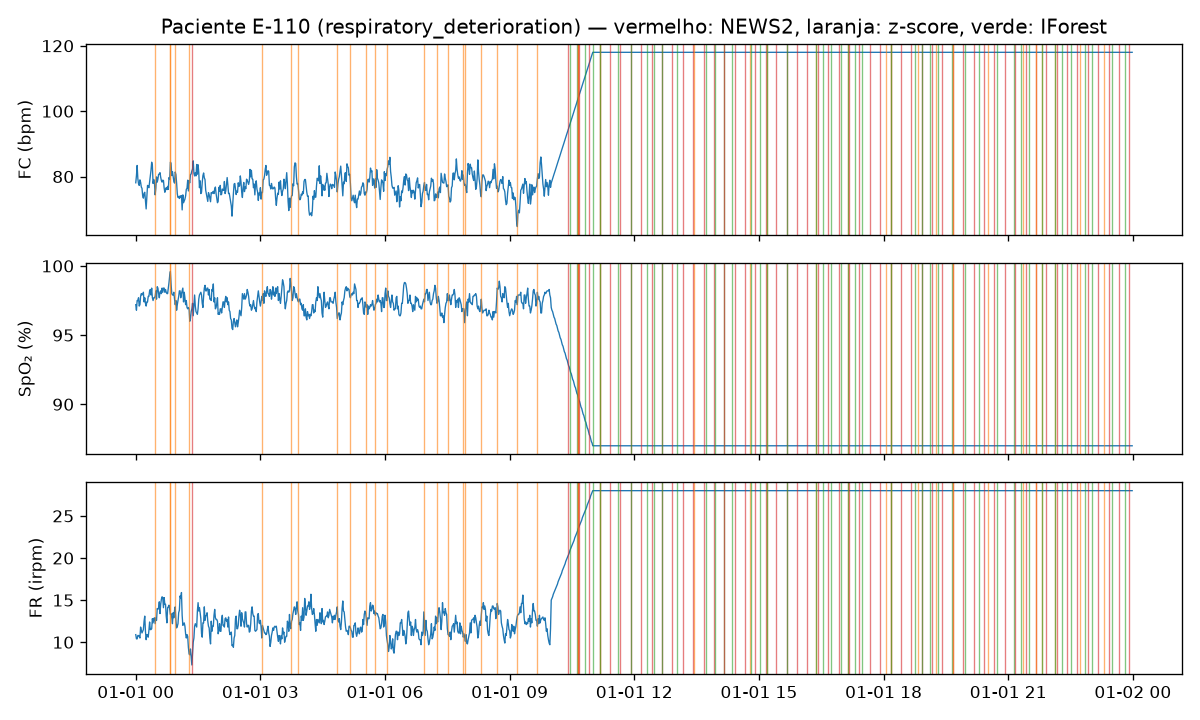
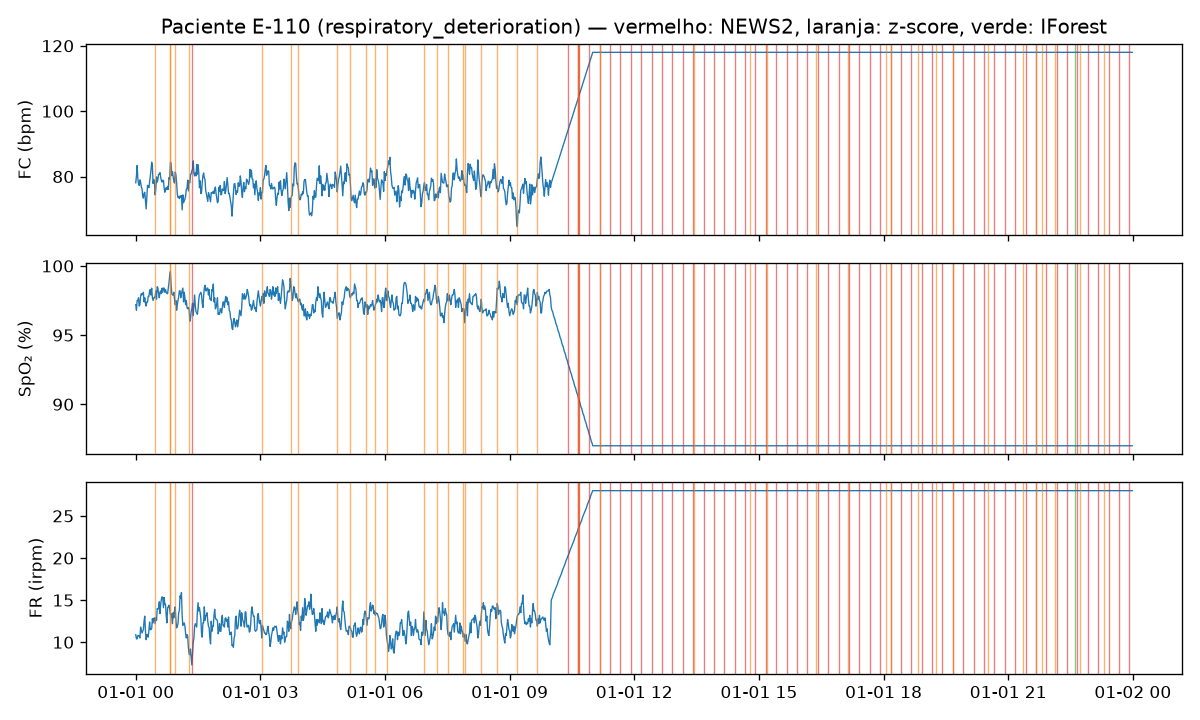
T36: Avaliação de vitais corrigida e ajuste de limiares

diff --git a/PROGRESSO.md b/PROGRESSO.md
@@ -2,22 +2,20 @@
 
 Atualize este arquivo em **todo** commit (regras na seção 0.1 do `PLANO_IMPLEMENTACAO.md`).
 
-- **Última atualização:** 2026-11-09 (T35 concluída)
-- **Tarefa atual:** T36
-- **Estado geral:** T00–T33 e T35 concluídas; pendentes, nesta ordem: T36 (avaliação de vitais corrigida), T37 (datasets reais com partes reservadas) e T38 (preparação da gravação); T34 opcional e fora da ordem
+- **Última atualização:** 2026-11-09 (T36 concluída)
+- **Tarefa atual:** T37
+- **Estado geral:** T00–T33, T35 e T36 concluídas; pendentes, nesta ordem: T37 (datasets reais com partes reservadas) e T38 (preparação da gravação); T34 opcional e fora da ordem
 
 ## Tarefa em andamento
 
-- **Tarefa:** T36 — Avaliação de vitais corrigida e ajuste de limiares
-- **Passos concluídos:** 1 (rótulos persistentes), 2 e 3 (métricas por episódio e por alerta em `evaluate_vitals.py`, com `--tune` e cache do IForest), 4 (persistência z-score/IForest e `threshold_key`/`p0_1`; modelo retreinado com `p0_1`)
-- **Próximo passo exato:** passo 5 (rodar `.venv/bin/python scripts/evaluate_vitals.py --tune`, escolher limiares, gravar em `thresholds.yaml` + `docs/DECISOES.md`), depois passo 6 (regerar resultados e relatório). A T35 mostrou os sintomas que a T36 deve resolver: pacientes normais (P-0003) e o do artefato (P-0005) recebem alerta de atenção por `vital_iforest` + `vital_zscore`; ver `docs/resultados/integracao.md`. Não precisa de Docker no stack: `evaluate_vitals.py` roda os detectores direto.
-- **Quem executa a T36:** o agente da **VPS** (Linux, Python 3.11 em `.venv`), por decisão do humano em 2026-11-09. Use `.venv/bin/python`, `.venv/bin/pytest -q` e `.venv/bin/ruff check .`. Antes do passo 1, confirme o ambiente: `.venv/bin/pip install "pyarrow<18"` e `.venv/bin/pip install -e ".[audio,video,reports,dashboard,dev]"` (o `pyarrow` 26 do `.venv` antigo quebra o openSMILE e o `st.dataframe`). Os testes de banco e de Redis reais só rodam com `docker compose up -d db redis`; sem eles, pulam. A T35 já validou o stack completo no desktop do humano (ver `docs/resultados/integracao.md`), então não repita essa integração.
-- **Dica de tempo:** `evaluate_vitals.py` leva cerca de 10 minutos por causa do Isolation Forest rodando minuto a minuto; a busca de limiares do passo 5 multiplica isso. Rode as configurações da grade em lote, guarde os resultados parciais em `docs/resultados/` e faça commit entre as rodadas.
-- **Mídias sintéticas** (T35) estão em `data/samples/sinteticos/` (`tom.wav`, `pessoas.jpg`, `pessoas.mp4`), fora do Git.
+- **Tarefa:** T37 — Datasets públicos do enunciado com partes reservadas
+- **Passos concluídos:** nenhum
+- **Próximo passo exato:** passo 1 da T37 (ver `PLANO_IMPLEMENTACAO.md`). Passos [HUMANO] da T37 (Common Voice, Azure para a consulta sintética) vão para a tabela de bloqueios.
+- **Ambiente:** VPS Linux, Python 3.11 em `.venv` (`.venv/bin/python`, `.venv/bin/pytest -q`, `.venv/bin/ruff check .`). `pyarrow` 17 instalado.
 - **Arquivos tocados:** nenhum
 - **Comandos longos em execução:** nenhum
-- **Testes falhando conhecidos:** nenhum
-- **Observações:** relatório tem itens marcados [PENDENTE] (custos Azure, prints, avaliação de vídeo). Ambiente Python 3.11 em `.venv`. `dbg_tmp.py` na raiz é arquivo não versionado de sessão anterior (não commitado).
+- **Testes falhando conhecidos:** nenhum (190 passam)
+- **Observações:** relatório tem itens marcados [PENDENTE]. `dbg_tmp.py` na raiz é arquivo não versionado de sessão anterior. `models/vitals_iforest.json` foi regravado com o campo `p0_1` (fora do Git; rode `scripts/train_vitals_iforest.py` em outra máquina para o limiar `p0_1` existir, senão o IForest cai no `threshold` antigo).
 
 ## Status das tarefas
 
@@ -59,7 +57,7 @@ Atualize este arquivo em **todo** commit (regras na seção 0.1 do `PLANO_IMPLEM
 | T33 | README, documentação e relatório técnico | concluída | ver `git log` | `pytest -q` (178 passed) e `ruff check .` passam; seções de custos Azure, prints e avaliação de vídeo marcadas [PENDENTE] (dependem de humano); aceite "colega roda do zero" não testado |
 | T34 | Opcionais | pendente | | opcional; fora da ordem, só se o humano pedir |
 | T35 | Integração ponta a ponta (modo falso) | concluída | ver `git log` | stack completo sobe e funciona (184 testes, zero reinícios); 4 defeitos corrigidos; falsos alarmes em P-0003/P-0005 vão para a T36; ver `docs/resultados/integracao.md`. Azure e Teams reais seguem pendentes [HUMANO] |
-| T36 | Avaliação de vitais corrigida e ajuste de limiares | pendente | | adicionada na revisão pós-T33 |
+| T36 | Avaliação de vitais corrigida e ajuste de limiares | concluída | ver `git log` | `pytest -q` (190) e `ruff check .` passam; por alerta: recall 0,93 (ajuste) / 1,00 (conferência) e 0,10 alertas/dia em normais; recall 100% no ajuste não alcançado (hipotensão lenta, ver `vitals_tuning.md`) |
 | T37 | Datasets públicos do enunciado com partes reservadas | pendente | | PhysioNet e AudioSet como dados; também UR Fall (queda), Common Voice (voz saudável) e consulta sintética pela Azure; adicionada na preparação do vídeo |
 | T38 | Preparação da gravação do vídeo | pendente | | simulador mais rápido, checagem prévia, roteiro; adicionada na preparação do vídeo |
 
@@ -144,3 +142,4 @@ Ver a tabela "Estado fora do Git" na seção 0.1 do plano. Registre aqui o que j
 | 2026-11-08 | T32 | ver `git log` | Sessão no Opus 5.5. scripts/run_demo.py (health, pacientes, simulador subprocesso ou externo, envio por `sim:clock`), data/samples/README.md e tests/test_run_demo.py; `pytest -q` (178 passed) e `ruff check .` OK. Próxima: T33. |
 | 2026-11-08 | T33 | ver `git log` | README reescrito (requisitos, passo a passo bash/PowerShell, problemas comuns, testes, estrutura), docs/arquitetura.md (Mermaid, serviços, streams, tabelas, catálogo) e docs/relatorio-tecnico.md (7 seções); `pytest -q` e `ruff check .` OK. Próxima: T34 opcional / passos humanos. |
 | 2026-11-09 | T35 | ver `git log` | Rodada no desktop do humano (Windows, RTX 5070, Docker Desktop). Stack completo com mídias sintéticas, laudo, alertas, confirmação, escalonamento, relatório e dashboard num navegador. Defeitos: redis-py 8 derrubava 4 workers (`bus.py`), testes sujavam o banco ao vivo (`tests/conftest.py`), coluna "Nível" do dashboard, `cu121` na documentação (RTX 50xx precisa de `cu128`). Pendências: falsos alarmes em pacientes normais (T36) e laudo sem tratamento de negação. |
+| 2026-11-09 | T36 | ver `git log` | VPS. Rótulos persistentes, persistência no z-score/IForest (`p0_1`), métricas por episódio e por alerta, grade de 24 combinações (ajuste e conferência), limiares escolhidos, relatório atualizado. Próxima: T37. |

diff --git a/docs/relatorio-tecnico.md b/docs/relatorio-tecnico.md
@@ -94,23 +94,44 @@ O provisionamento é feito por `scripts/provision_azure.sh` (grupo `rg-medwatch`
 ### 5.1 Sinais vitais (dados sintéticos)
 
 Avaliação com `scripts/evaluate_vitals.py`: 30 pacientes sintéticos (seeds 100–129), 24 h cada, 15 episódios rotulados
-(deterioração respiratória, hipotensão, taquicardia). Um episódio conta como detectado (TP) se houver detecção entre
-`ts_start` e `ts_end + 30 min`; detecções fora dessas janelas são FP.
+(deterioração respiratória, hipotensão, taquicardia) e 10 pacientes normais. A T36 trocou o método da T31, que dava
+precisão de 1% a 3%, por dois motivos: (1) no gerador a piora continuava até o fim do dia, mas o rótulo terminava no fim
+da rampa, então cada repetição do NEWS2 com o paciente ainda grave contava como falso positivo (agora os rótulos de
+`respiratory_deterioration` e `hypotension` vão até o fim da série); (2) contar cada evidência como um erro não mede o
+que a equipe médica recebe. Passaram a existir três métricas: por evidência (a antiga), por episódio (detecções do mesmo
+tipo com menos de 30 min entre si formam um episódio) e **por alerta** (evidências passadas pelo motor de fusão; o
+alerta abre em nível `warning` ou mais e fecha com risco < 20 por 60 min). O número principal é o do alerta.
 
-| Configuração | TP | FP | FN | Precisão | Recall | F1 | Atraso mediano (min) | FP/paciente-dia |
-|---|---|---|---|---|---|---|---|---|
-| NEWS2 | 15 | 557 | 0 | 0,03 | 1,00 | 0,05 | 24,0 | 18,57 |
-| NEWS2 + z-score | 15 | 2011 | 0 | 0,01 | 1,00 | 0,01 | 0,0 | 67,03 |
-| NEWS2 + z-score + IForest | 15 | 2632 | 0 | 0,01 | 1,00 | 0,01 | 0,0 | 87,73 |
+Limiares escolhidos numa grade de 24 combinações (`docs/resultados/vitals_tuning.md`): z-score 3,0 com persistência 1;
+Isolation Forest no percentil 0,1 com persistência 3.
+
+**Por alerta (seeds 100–129)**
+
+| Configuração | TP | FP | FN | Precisão | Recall | Atraso mediano (min) | Alertas/dia em normais |
+|---|---|---|---|---|---|---|---|
+| NEWS2 | 6 | 1 | 9 | 0,86 | 0,40 | 40,0 | 0,00 |
+| NEWS2 + z-score | 13 | 3 | 2 | 0,81 | 0,87 | 37,0 | 0,10 |
+| NEWS2 + z-score + IForest | 14 | 3 | 1 | 0,82 | 0,93 | 30,5 | 0,10 |
+
+**Antes × depois (NEWS2 + z-score + IForest)**
+
+| Método | Precisão | Recall | FP por paciente-dia (normais) |
+|---|---|---|---|
+| T31: por evidência, rótulos curtos, limiares antigos | 0,01 | 1,00 | 87,7 (todos os pacientes) |
+| T36: por evidência, rótulos persistentes | 0,01 | 1,00 | 49,5 (todos os pacientes) |
+| T36: por episódio | 0,03 | 1,00 | 21,1 episódios/dia (normais) |
+| **T36: por alerta, limiares ajustados** | **0,82** | **0,93** | **0,10 alertas/dia (normais)** |
 
 Fonte: `docs/resultados/vitals_metrics.csv` / `.md`; exemplo gráfico em `docs/resultados/vitals_example.png`.
 
-**Leitura honesta.** O recall é 100%, mas a precisão é baixa. O gerador sintético mantém o estado alterado até o fim do
-dia e o worker repete os alertas NEWS2 médio/alto a cada `repeat_minutes`; essas repetições fora da janela do rótulo
-contam como FP. O z-score também dispara em pacientes normais porque o ruído sintético tem variância baixa. Os métodos
-adicionais (z-score, Isolation Forest) reduzem o atraso mediano a 0 min mas multiplicam os falsos positivos — na fusão
-eles têm peso baixo (0,40 e 0,50) e só a maior contribuição por tipo conta, o que limita o efeito no escore de risco.
-Ajustes possíveis: contar repetições como o mesmo episódio, aumentar cooldown e limiar do z-score.
+**Leitura honesta.** A meta de recall de 100% nos positivos não foi alcançada no conjunto de ajuste (14 de 15; no
+conjunto de conferência, seeds 200–229, nunca usado no ajuste, o recall foi 1,00 com 0,00 alerta por paciente-dia em
+normais). O rótulo perdido é uma hipotensão lenta cuja PAS (~82 mmHg) dá só 3 pontos de NEWS2 (faixa `low_medium`, peso
+0,45), risco ≈ 14, abaixo do nível de alerta; resolver exigiria mexer nos pesos da fusão, o que ficou fora do escopo. A
+meta de menos de 1 alerta por paciente-dia em normais foi atingida (0,10). Os dados são sintéticos e o gerador tem
+ruído simples; o ganho em precisão vem principalmente de medir alertas em vez de evidências e de a fusão limitar o
+efeito de detectores ruidosos (só a maior contribuição por tipo conta). Por evidência e por episódio o z-score continua
+gerando muitas detecções em normais (21 episódios por paciente-dia); elas não viram alerta porque o peso é 0,40.
 
 ### 5.2 Vídeo
 
@@ -150,7 +171,7 @@ Estes casos exigem as amostras de mídia, os pesos YOLO e (para 2 e 5) chaves Az
 
 1. Executar a demonstração completa com amostras reais, chaves Azure e Teams, e preencher as seções 4 e 5.3.
 2. Anotar vídeos e rodar `evaluate_video.py`.
-3. Reduzir falsos positivos dos vitais (agrupar repetições, cooldown, limiar do z-score) e treinar o Isolation Forest com MIMIC-IV.
+3. Treinar o Isolation Forest com MIMIC-IV e reduzir os falsos positivos do z-score por evidência (agora só mitigados pela fusão).
 4. Calibrar os pesos de fusão com desfechos rotulados.
 5. Substituir/complementar o YOLO COCO por detector de instrumentos cirúrgicos treinado; avaliar OpenPose.
 6. Integrar a um padrão de interoperabilidade (HL7 FHIR) e adicionar autenticação, auditoria e RBAC.

diff --git a/docs/resultados/vitals_metrics.md b/docs/resultados/vitals_metrics.md
@@ -1,11 +1,35 @@
 # Avaliação dos vitais (30 pacientes sintéticos, seeds 100–129, 24 h)
 
+Limiares em uso: z-score 3.0 com persistência 1; Isolation Forest `p0_1` com persistência 3 (`config/thresholds.yaml`).
+
+## 1. Por alerta (número principal: o que a equipe médica veria)
+
+Evidências de cada paciente passam pelo `FusionEngine` (`config/fusion.yaml`); um alerta abre quando o nível chega a `warning` ou mais e fecha quando o risco fica abaixo de 20 por 60 minutos seguidos. TP: alerta aberto em `[ts_start, ts_end + 30 min]` de um rótulo positivo; os demais alertas são FP (inclui os causados por `sensor_artifact`).
+
+| Configuração | TP | FP | FN | Precisão | Recall | Atraso mediano (min) | Alertas/dia em pacientes normais |
+|---|---|---|---|---|---|---|---|
+| NEWS2 | 6 | 1 | 9 | 0.86 | 0.40 | 40.0 | 0.00 |
+| NEWS2 + z-score | 13 | 3 | 2 | 0.81 | 0.87 | 37.0 | 0.10 |
+| NEWS2 + z-score + IForest | 14 | 3 | 1 | 0.82 | 0.93 | 30.5 | 0.10 |
+
+## 2. Por episódio
+
+TP: ao menos uma detecção em `[ts_start, ts_end + 30 min]`. Fora das janelas, detecções do mesmo tipo com menos de 30 min entre si formam um episódio, e cada episódio é um FP. Coluna final: episódios falsos por paciente-dia nos pacientes `normal`.
+
+| Configuração | TP | FP | FN | Precisão | Recall | Atraso mediano (min) | Episódios FP/dia em normais |
+|---|---|---|---|---|---|---|---|
+| NEWS2 | 15 | 51 | 0 | 0.23 | 1.00 | 24.0 | 2.30 |
+| NEWS2 + z-score | 15 | 508 | 0 | 0.03 | 1.00 | 0.0 | 21.10 |
+| NEWS2 + z-score + IForest | 15 | 508 | 0 | 0.03 | 1.00 | 0.0 | 21.10 |
+
+## 3. Por evidência (método da T31, para comparação)
+
+Cada detecção fora das janelas de rótulo é um FP (repetições incluídas).
+
 | Configuração | TP | FP | FN | Precisão | Recall | F1 | Atraso mediano (min) | FP/paciente-dia |
 |---|---|---|---|---|---|---|---|---|
-| NEWS2 | 15 | 557 | 0 | 0.03 | 1.00 | 0.05 | 24.0 | 18.57 |
-| NEWS2 + z-score | 15 | 2011 | 0 | 0.01 | 1.00 | 0.01 | 0.0 | 67.03 |
-| NEWS2 + z-score + IForest | 15 | 2632 | 0 | 0.01 | 1.00 | 0.01 | 0.0 | 87.73 |
+| NEWS2 | 15 | 196 | 0 | 0.07 | 1.00 | 0.13 | 24.0 | 6.53 |
+| NEWS2 + z-score | 15 | 1485 | 0 | 0.01 | 1.00 | 0.02 | 0.0 | 49.50 |
+| NEWS2 + z-score + IForest | 15 | 1485 | 0 | 0.01 | 1.00 | 0.02 | 0.0 | 49.50 |
 
-Critério: detecção dentro de `[ts_start, ts_end + 30 min]` de um rótulo positivo (respiratory_deterioration, hypotension, tachy_spike) conta como um TP por rótulo; detecções fora dessas janelas são FP (inclui as causadas por `sensor_artifact`); rótulos sem detecção são FN.
-
-Leitura: o gerador mantém o estado alterado até o fim do dia e o worker repete alertas NEWS2 médio/alto a cada `repeat_minutes`; essas repetições após a janela do rótulo contam como FP. O z-score também dispara em pacientes normais (limiar/cooldown da `thresholds.yaml`).
+Rótulos: `respiratory_deterioration` e `hypotension` vão até o fim da série (o estado alterado persiste); `tachy_spike` dura 3 minutos.
